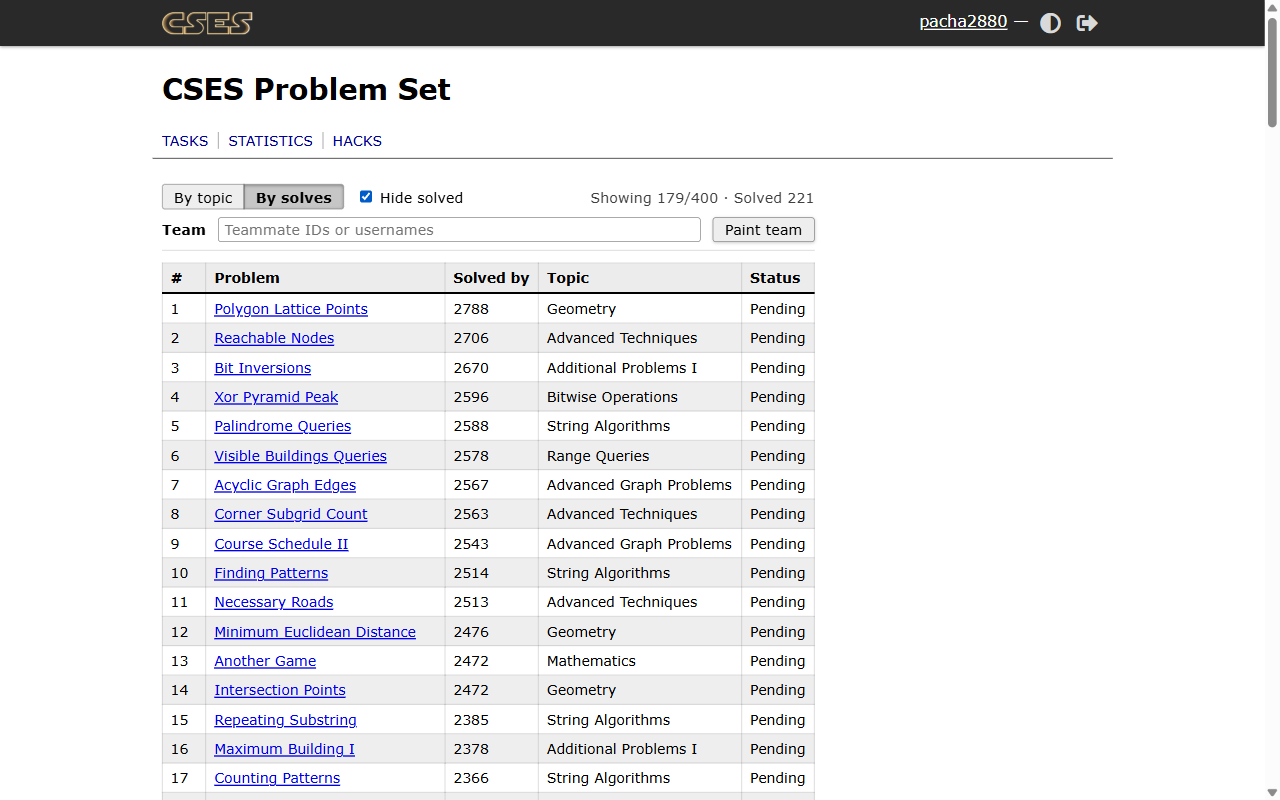
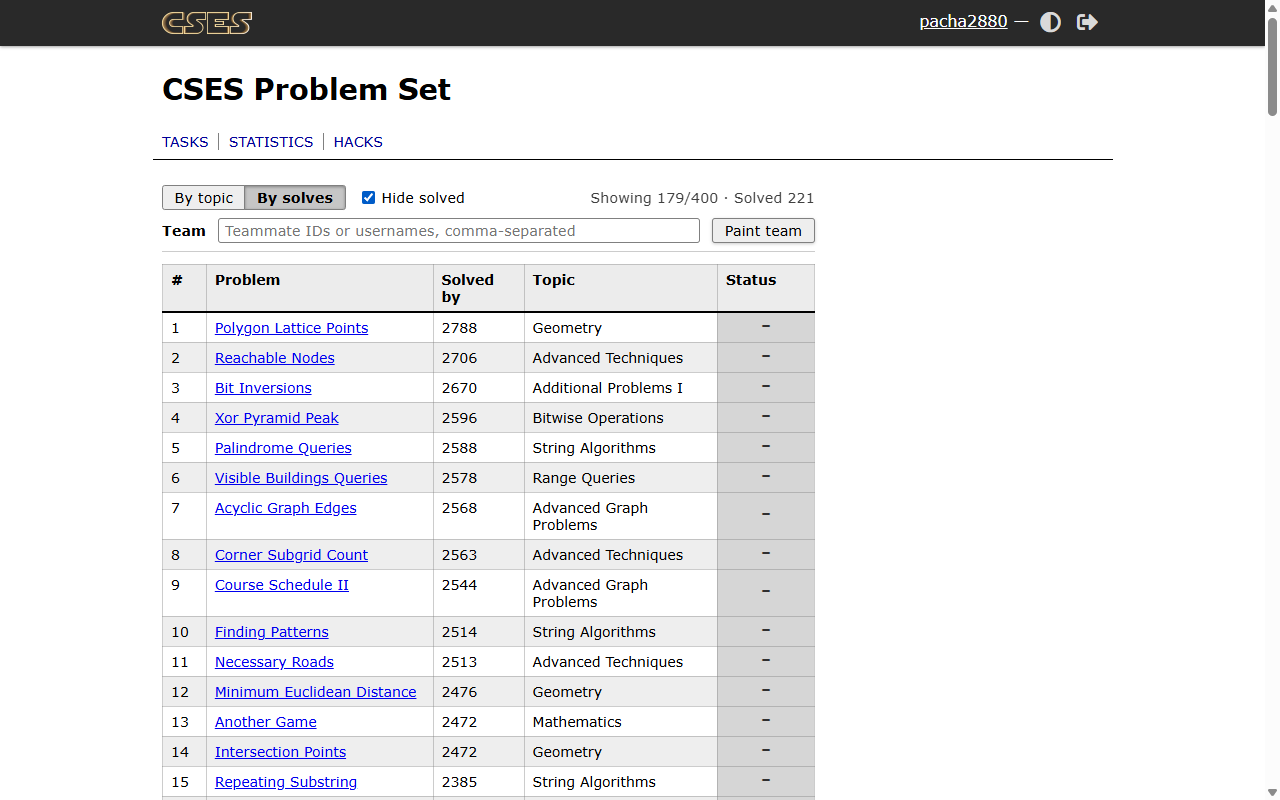
Sorted table status cells are CSES's own indicators; English store listing and screenshots; working agreement in AGENTS.md

diff --git a/src/views.js b/src/views.js
@@ -61,22 +61,21 @@ function renderSortedTable() {
     link.href = row.url;
     link.textContent = row.title;
 
-    // Same status icon as CSES's own list (check, dash, cross), including team painting
-    const status = $("span.task-score", row.li)?.cloneNode(true) ?? Object.assign(document.createElement("span"), { className: "task-score icon" });
-    status.removeAttribute("data-pacha-painted");
+    // The status cell is CSES's own indicator (check, dash, cross), including team painting
+    const statusClass = $("span.task-score", row.li)?.className ?? "task-score icon";
     const cells = [
       idx + 1,
       link,
       Number.isInteger(row.solvedCount) ? row.solvedCount : "",
       row.topic,
-      status,
+      "",
     ];
     for (const content of cells) {
       const td = document.createElement("td");
       td.append(content);
       tr.appendChild(td);
     }
-    tr.lastChild.className = "status";
+    tr.lastChild.className = `status ${statusClass}`;
 
     tbody.appendChild(tr);
   });

diff --git a/src/styles.js b/src/styles.js
@@ -58,8 +58,7 @@ style.textContent = `
     display: inline-block; padding: 2px 6px; border-radius: 6px; font-size: 12px; margin-left: 6px;
     background: rgba(128,128,128,.15); border: 1px solid rgba(128,128,128,.4);
   }
-  #${ID}-table td.status { padding: 0; width: 80px; vertical-align: middle; }
-  #${ID}-table td.status .task-score { display: block; text-align: center; line-height: 1.6; }
+  #${ID}-table td.status { width: 80px; text-align: center; vertical-align: middle; }
   .soft-hidden { display: none !important; }
   .hide-topic-badge .topic-badge { display: none !important; }
 `;

diff --git a/AGENTS.md b/AGENTS.md
@@ -1,5 +1,9 @@
 Chrome extension (Manifest V3) that adds a toolbar to https://cses.fi/problemset. Plain JS, no build step, no framework. All code, comments, UI text and docs are in English.
 
+## Working agreement (always)
+
+Every change the owner asks for ends the same way, without asking: verify it in the test browser (`npm run smoke`, screenshots in both CSES themes), then `npm run ship -- "message"`. That one command commits, pushes and deploys: the push to `main` runs the Release workflow (~20 s), which uploads and submits to the Chrome Web Store. Never leave finished work uncommitted, unpushed or undeployed. Google's review afterwards (hours to days) is the only part that is not instant; the workflow handles it (see Release).
+
 ## Layout
 
 ```

diff --git a/BACKLOG.md b/BACKLOG.md
@@ -56,6 +56,6 @@ Data model: `row.solvedBy` (Set of teammate ids) next to `row.baseSolved`; `row.
 
 ## 5. Store polish
 
-- [ ] Update the store listing to English (name, description, screenshots); the UI is English since 1.2.0.
+- [x] Update the store listing to English (name, description, screenshots); the UI is English since 1.2.0.
 - [ ] Add 16px and 48px icons.
-- [ ] New screenshots (light and dark) and a listing text that mentions the friends-list behavior.
+- [x] New screenshots (light and dark) and a listing text that mentions the friends-list behavior.
